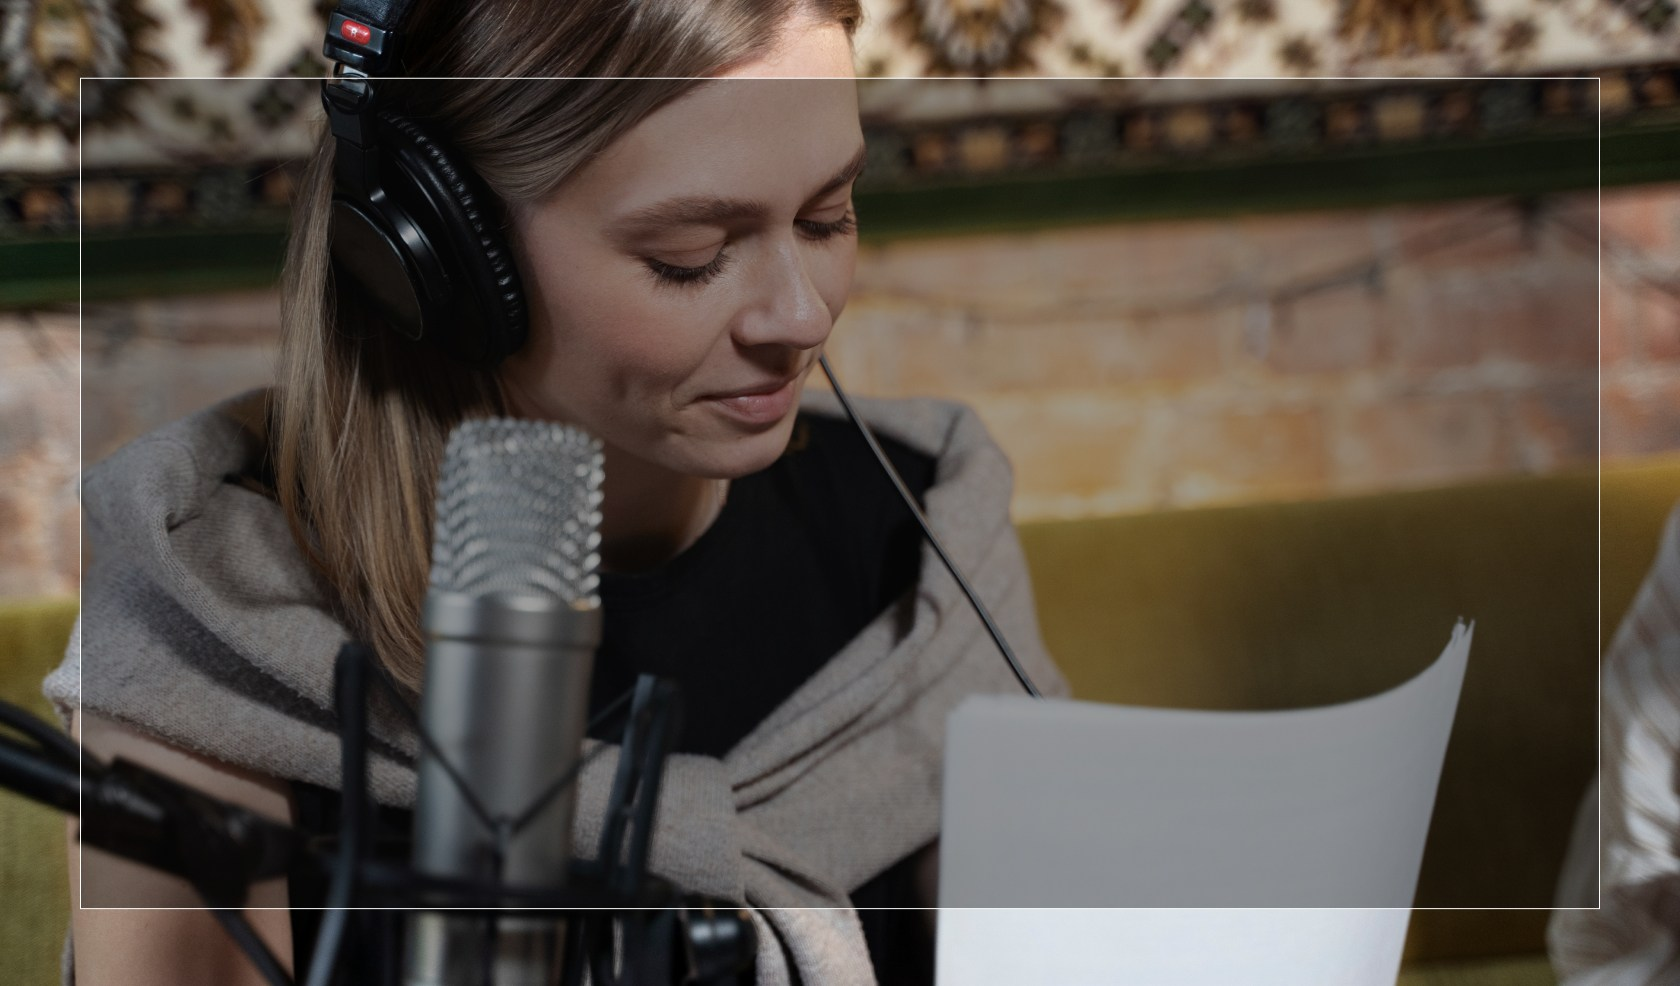
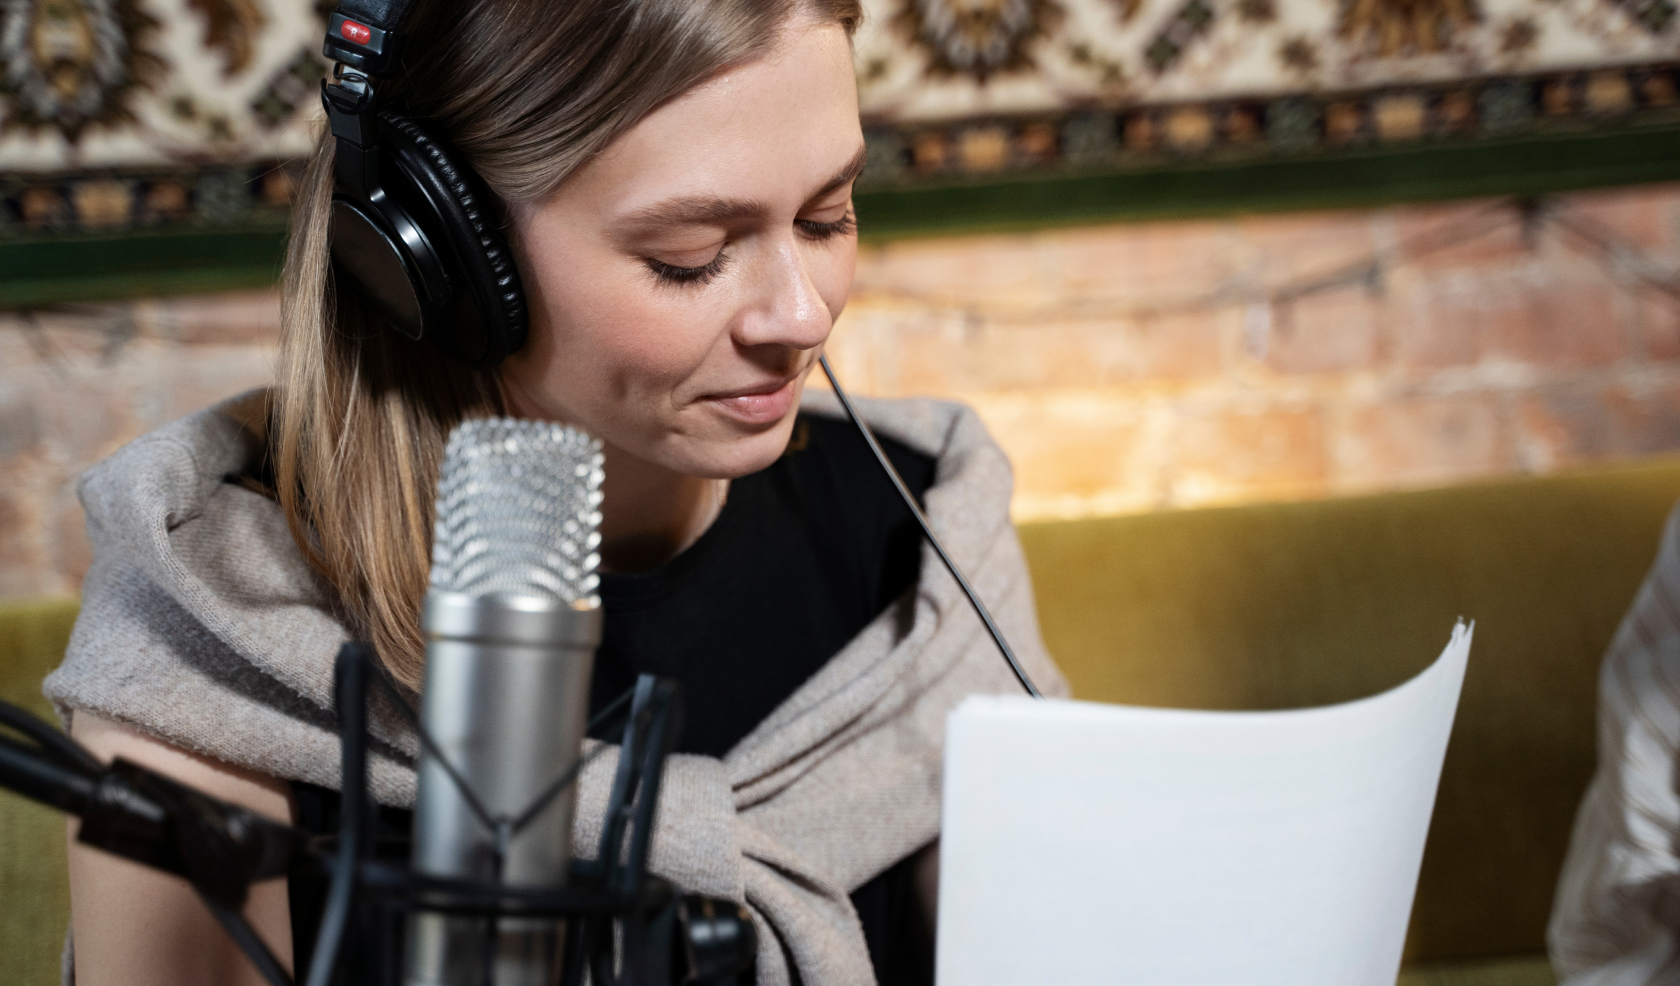
correccion imagenes 10 del 10

diff --git a/src/app/sections/section-hero/Hero.js b/src/app/sections/section-hero/Hero.js
@@ -1,6 +1,6 @@
 'use client'
 import React, { useState, useEffect } from 'react'
-import hero1 from '../../assets/inicio.jpg'
+import hero1 from '../../assets/hero1.jpg'
 import hero2 from '../../assets/hero2.jpg'
 import hero3 from '../../assets/hero3.jpg'
 import Image from 'next/image'
@@ -21,10 +21,11 @@ const Hero = () => {
   return (
     <div
       id="carouselExampleSlidesOnly"
-      className="grid grid-cols-1 grid-rows-1"
+      className="grid grid-cols-1 grid-rows-1 w-auto h-auto"
       data-te-carousel-init
       data-te-ride="carousel"
     >
+      <div className='bg-black col-start-1 col-end-1 row-start-1 row-end-1 z-40 border-2 lg:border-4 border-white opacity-30 h-[90%] w-[90%] m-auto'></div>
       <svg className='m-auto col-start-1 col-end-1 row-start-1 row-end-1 z-40 w-1/2 h-1/8' xmlns="http://www.w3.org/2000/svg" viewBox="0 0 249 86" fill="none">
         <path d="M19.4415 82.3567C12.9562 82.3567 6.31643 79.1301 5.46716 71.4718C4.30906 61.0144 13.0334 49.9351 19.4029 41.8102L20.754 40.0997L20.8312 40.1386L21.1014 39.7887L21.6805 40.2552L21.4103 40.5662C20.9856 41.1105 20.5224 41.6936 20.0591 42.2767C13.7668 50.2849 5.15833 61.2088 6.27782 71.3163C7.1657 79.2856 14.8091 82.0846 21.5261 81.3071L21.6033 82.1235C20.9084 82.279 20.175 82.3179 19.4415 82.3567ZM26.1584 73.3766C24.1125 73.3766 22.1823 72.5214 20.8312 71.0053C19.2871 69.2948 18.322 67.1178 18.0904 64.8242L18.9011 64.7464C19.1327 66.8845 20.0205 68.8671 21.4489 70.4221C22.8386 71.9771 24.8845 72.7546 26.9691 72.5214C29.6327 72.2104 32.1805 70.6165 34.2651 67.8953C38.5501 62.3362 40.7118 52.5786 39.5151 44.1427C39.1677 41.6547 38.5887 39.1667 38.0868 36.9897C37.6622 35.3958 37.3534 33.7631 37.1217 32.1303C36.7743 28.9815 38.164 25.405 42.0629 24.9774C43.7615 24.7052 45.4986 25.1717 46.8883 26.2602C49.2817 28.204 49.9766 31.5861 50.1696 33.4521L49.3589 33.5298C49.1659 31.8193 48.5483 28.6316 46.3865 26.8822C45.1898 25.9492 43.6843 25.5605 42.1788 25.7937C38.8589 26.1825 37.7008 29.2925 37.971 32.0137C38.2026 33.6076 38.5115 35.2015 38.9361 36.7565C39.4765 38.9723 40.0556 41.4603 40.403 43.9872C41.6383 52.7729 39.4765 62.5694 34.9986 68.3618C32.7596 71.2774 30.0188 72.9879 27.1235 73.3378C26.7375 73.3766 26.4673 73.3766 26.1584 73.3766ZM3.03516 46.0864C2.68773 46.0864 2.34031 45.9309 2.07008 45.7366C1.0278 44.8813 0.44875 42.6266 0.371544 41.7325C0.0241155 38.5447 0.873383 35.3181 2.61053 33.1022C3.96164 31.3528 5.969 30.2644 8.13078 30.0311C11.4893 29.6424 13.7668 31.1196 15.7356 32.4025C17.3955 33.491 18.8238 34.3851 20.6382 34.1907C22.7614 33.9575 23.2632 32.5968 23.7264 30.8475L23.7651 30.692C24.2669 28.9815 24.8073 27.1932 27.1621 26.9211C28.8221 26.7267 30.096 27.8541 30.289 29.6424L29.4783 29.759C29.3625 28.7482 28.7063 27.582 27.2779 27.7764C25.4636 27.9707 25.0776 29.2925 24.5757 30.9641L24.5371 31.1196C24.1511 32.6357 23.6106 34.7738 20.754 35.0848C18.6308 35.3181 17.0095 34.2685 15.311 33.1411C13.3422 31.8582 11.3348 30.5753 8.24659 30.8863C6.27783 31.0807 4.50208 32.0915 3.26678 33.6465C1.64545 35.7068 0.873384 38.7002 1.18221 41.6547C1.25942 42.5099 1.79986 44.4537 2.61053 45.0757C2.72633 45.1923 2.91935 45.2701 3.11237 45.2312L3.18957 46.0476C3.15097 46.0476 3.07377 46.0476 3.03516 46.0864Z" fill="#EC6327"/>
         <path d="M151.928 56.6993C149.727 56.7382 147.604 55.8052 146.137 54.1335C144.632 52.4619 143.628 50.0517 143.319 47.3693L144.13 47.2916C144.4 49.8184 145.326 52.0343 146.716 53.5893C148.26 55.2998 150.576 56.155 152.854 55.844C159.725 55.0665 164.281 48.4578 166.867 43.0931L167.06 42.7043L170.419 44.6481L169.994 45.3867L167.407 43.8706C163.586 51.6456 158.567 56.0773 152.931 56.6993C152.622 56.6993 152.275 56.7382 151.928 56.6993ZM128.766 46.4752C127.839 37.7672 130.001 28.9815 134.826 21.673C139.961 14.0146 147.45 9.2719 155.904 8.30002C159.378 7.91127 163.045 8.41665 165.863 9.77727C169.376 11.41 171.422 14.1313 171.808 17.63C172.271 21.8285 169.531 25.5994 165.709 26.027C161.694 26.4935 158.336 23.9666 157.872 20.1957L158.683 20.0791C159.069 23.4612 161.964 25.5994 165.593 25.2106C169.376 24.783 171.345 21.0121 170.998 17.7466C170.534 13.7036 167.755 11.6044 165.516 10.5548C162.814 9.31077 159.339 8.8054 156.02 9.15527C147.797 10.0883 140.501 14.7144 135.521 22.1395C130.812 29.2925 128.727 37.845 129.615 46.3974L128.766 46.4752Z" fill="#EC6327"/>

diff --git a/src/app/sections/section-espacio-voices/SectionEspacioVoices.js b/src/app/sections/section-espacio-voices/SectionEspacioVoices.js
@@ -5,16 +5,14 @@ const EspacioVoices = () => {
     <section id="EspacioVoices" className="flex flex-col mx-auto mb-12 pt-6">
       <h2 className="text-center text-2xl font-bold my-8">Espacio Voices</h2>
       <p className="lg:hidden text-center text-sm font-base px-16">
-        Un <span className="">lugar único y especial</span> para
-        aprender a tocar{' '}
-        <span className="">instrumentos y cantar</span>.
+        Un lugar único y especial para
+        aprender a tocar instrumentos y cantar
       </p>
       <p className="hidden lg:flex text-center text-sm font-base px-16 mx-auto">
-        Un lugar único y especial para aprender a tocar instrumentos y cantar.
+        Un lugar único y especial para aprender a tocar instrumentos y cantar
       </p>
       <p className="lg:hidden text-center text-sm font-base px-20">
-        Clases que acompañan tus{' '}
-        <span className="">ganas de hacer música</span>.
+        Clases que acompañan tus ganas de hacer música
       </p>
       <p className="hidden lg:flex text-center text-sm font-base px-20 mx-auto">
         Clases que acompañan tus ganas de hacer música.
@@ -73,8 +71,7 @@ const EspacioVoices = () => {
             />
           </svg>
           <p className="text-center text-sm font-base px-20">
-            <span className="">Te acompañamos</span> en todo
-            momento
+            Te acompañamos en todo momento
           </p>
         </div>
         <div className="flex flex-col mx-auto mb-6">
@@ -92,8 +89,7 @@ const EspacioVoices = () => {
             />
           </svg>
           <p className="text-center text-sm font-base px-20">
-            <span className="">Cuidamos tu voz</span> tu voz con
-            técnica
+            Cuidamos tu voz con técnica
           </p>
         </div>
         <div className="flex flex-col mx-auto mb-6">
@@ -111,7 +107,7 @@ const EspacioVoices = () => {
             />
           </svg>
           <p className="text-center text-sm font-base px-20">
-            <span className="">Calidad</span> profesional
+            Calidad profesional
           </p>
         </div>
         <div className="flex flex-col mx-auto">
@@ -129,8 +125,7 @@ const EspacioVoices = () => {
             />
           </svg>
           <p className="text-center text-sm font-base px-20">
-            Tenemos 35 años de{' '}
-            <span className="">experiencia</span>
+            Tenemos 35 años de experiencia
           </p>
         </div>
       </div>

diff --git a/src/app/sections/section-separador-alas/SeparadorAlas.js b/src/app/sections/section-separador-alas/SeparadorAlas.js
@@ -4,10 +4,11 @@ import alas from '../../assets/alas.jpg'
 
 const SeparadorAlas = () => {
   return (
-    <div className='grid grid-cols-1 grid-rows-1 w-full'>
+    <div className='grid grid-cols-1 grid-rows-1 w-auto h-auto'>
+      <div className='bg-black col-start-1 col-end-1 row-start-1 row-end-1 z-40 border-2 lg:border-4 border-white opacity-30 h-[90%] w-[90%] m-auto'></div>
       <div className='col-start-1 col-end-1 row-start-1 row-end-1 m-auto z-40 flex flex-col'>
-        <h2 className='text-lg md:text-2xl lg:text-3xl xl:text-5xl font-bold z-40 m-auto mb-2 lg:mb-4'>Voices le pone</h2>
-        <h2 className='text-lg md:text-2xl lg:text-3xl xl:text-5xl font-bold z-40 m-auto'>alas a tu música</h2>
+        <h2 className='text-lg sm:text-xl md:text-2xl lg:text-3xl xl:text-5xl font-bold z-40 m-auto mb-2 lg:mb-4'>Voices le pone</h2>
+        <h2 className='text-lg sm:text-xl md:text-2xl lg:text-3xl xl:text-5xl font-bold z-40 m-auto'>alas a tu música</h2>
       </div>
       <Image
         width={500}

diff --git a/src/app/components/Footer.js b/src/app/components/Footer.js
@@ -5,7 +5,7 @@ import Link from 'next/link'
 
 const email = 'info@mpvoices.com.ar'
 const tel = '+54 9 1133825678'
-const dir = 'Blanco Encalada 2405, Béccar.'
+const dir = 'Blanco Encalada 2405, Beccar.'
 
 export default function Footer () {
   const scrollToTop = () => {
